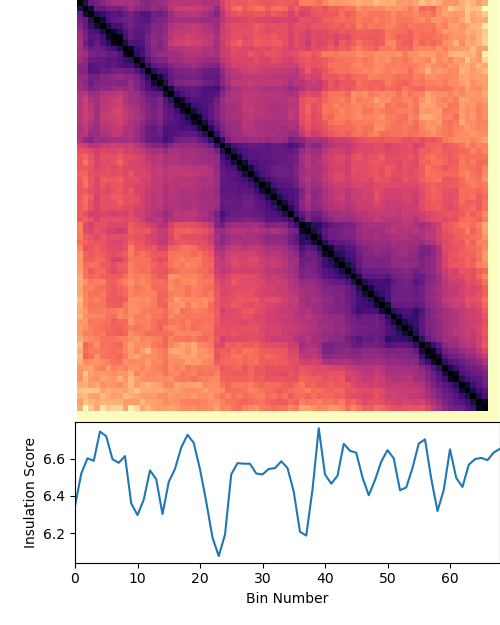
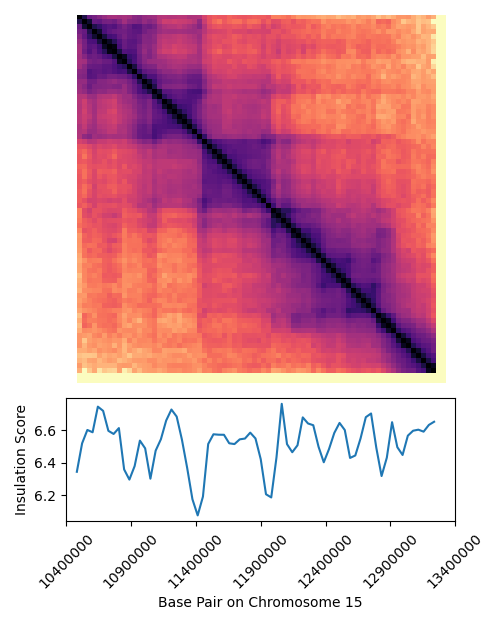
update

diff --git a/week6-homework/insulation.py b/week6-homework/insulation.py
@@ -68,15 +68,25 @@ empty40kb[data_40kb_filtered['F2'], data_40kb_filtered['F1']] = data_40kb_filter
 print(empty40kb)
 # print(54951+1-54878) ## 74
 
-insulation = numpy.zeros((69,))
-for i in range(2, len(empty40kb)-3):
-    for j in range(2, len(empty40kb)-3):
-        if i==j:
-            insulation[i-2] = numpy.mean(empty40kb[(i - 2):(i + 2), (j - 2):(j + 2)])
-print(insulation)
-x = numpy.arange(0, 69, 1)
+print(len(empty40kb))
+
+insulation = numpy.zeros((len(empty40kb),))
+for i in range(2, len(empty40kb)-2):
+    insulation[i] = numpy.mean(empty40kb[(i - 2):(i + 2), (i - 2):(i + 2)])
+    # for j in range(2, len(empty40kb)-3):
+    #     if i==j:
+    #         insulation[i-2] = numpy.mean(empty40kb[(i - 2):(i + 2), (j - 2):(j + 2)])
+# print(insulation)
+insulation[0] = numpy.nan
+insulation[1] = numpy.nan
+insulation[-1] = numpy.nan
+insulation[-2] = numpy.nan
+insulation[-3] = numpy.nan
+x = numpy.arange(0, len(empty40kb), 1)
 print(x)
 y = insulation
+
+print(13400000-10400000)
 
 fig, ax = plt.subplots(2, 1, gridspec_kw={'height_ratios': [3, 1]}, figsize=(5,6.25))
 ax[0].axis('off')
@@ -85,8 +95,11 @@ plt.margins(x=0)
 plt.subplots_adjust(left=0.15, bottom=0.1, right=1.0, top=1.0, wspace=0.4, hspace=0.0)
 ax[0].imshow(empty40kb,cmap = "magma_r", vmax = 7)
 ax[1].plot(x, y)
-ax[1].set_xlabel("Bin Number")
+ax[1].set_xlabel("Base Pair on Chromosome 15")
 ax[1].set_ylabel("Insulation Score")
+ax[1].set_xticks(numpy.arange(0,74+1, 74/6), numpy.arange(10400000, 13400000+1, 500000))
+plt.xticks(rotation = 45)
+fig.tight_layout()
 plt.savefig("insulation.png")
 plt.show()
 

diff --git a/week6-homework/part2.py b/week6-homework/part2.py
@@ -136,7 +136,7 @@ ax[0].imshow(empty1, cmap = "magma_r", vmax = 4)
 ax[1].imshow(empty2, cmap = "magma_r", vmax = 4)
 ax[2].imshow(empty3, cmap = "seismic", norm = colors.CenteredNorm())
 
-sfig.tight_layout(pad=1.0)
+fig.tight_layout(pad=1.0)
 plt.savefig("three_plots_subsampled.png")
 plt.show()
 
